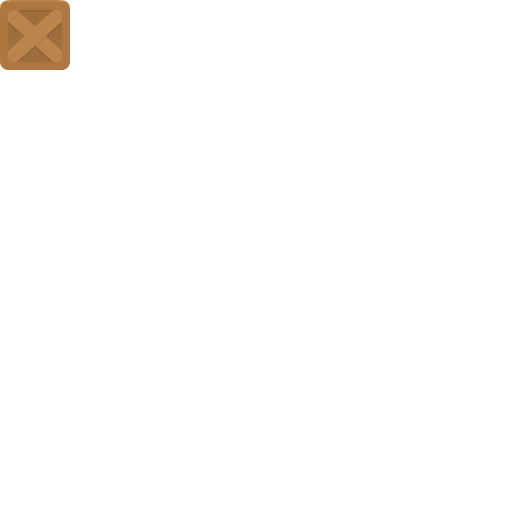
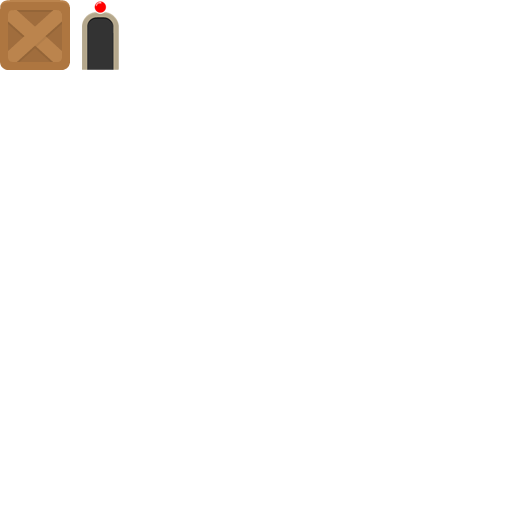
remove gameobject/component stuff

Changed region(s): [[0.1562, 0.0, 0.25, 0.1562]]

diff --git a/src/Level.js b/src/Level.js
@@ -1,10 +1,10 @@
 'use strict';
 
 define([
-    'gameobjects/GameObject',
     'components/PlayerController',
-    'Constants'
-], function (GameObject, PlayerController, Constants)
+    'Constants',
+    'components/CloningMachine'
+], function (PlayerController, Constants, CloningMachine)
 {
     // Create a game object.
     var Level = function(fileName)
@@ -20,6 +20,8 @@ define([
         this.backgroundLayer = null;
 
         this.wallsLayer = null;
+
+        this.cloningMachines = [];
     };
 
     Level.GRAVITY = 2000;
@@ -49,6 +51,9 @@ define([
 
         // Wall objects.
         this.createWalls();
+
+        // Special objects.
+        this.createSpecialObjects();
 
         // Physics objects.
         this.createPhysicsObjects();
@@ -81,6 +86,20 @@ define([
         }
     };
 
+    Level.prototype.createSpecialObjects = function()
+    {
+        var cloningMachinesGroup = game.add.group();
+
+        this.map.createFromObjects('Objects', 51, 'cloning-machine', 0, true, false, cloningMachinesGroup);
+
+        for (var i = 0; i < cloningMachinesGroup.children.length; ++i)
+        {
+            var cloningMachine = new CloningMachine(cloningMachinesGroup.children[i]);
+
+            this.cloningMachines.push(cloningMachine);
+        }
+    };
+
     Level.prototype.createPhysicsObjects = function()
     {
         var physicsObjects = game.add.group();
@@ -100,7 +119,7 @@ define([
 
     Level.prototype.createPlayer = function()
     {
-        this.player = new GameObject('player', [PlayerController]);
+        window.player = this.player = new PlayerController();
 
         //  Here is the contact material. It's a combination of 2 materials, so whenever shapes with
         //  those 2 materials collide it uses the following settings.
@@ -134,6 +153,11 @@ define([
     Level.prototype.update = function()
     {
         this.player.update();
+
+        for (var i = 0; i < this.cloningMachines.length; ++i)
+        {
+            this.cloningMachines[i].update();
+        }
     };
 
     return Level;

diff --git a/src/components/PlayerController.js b/src/components/PlayerController.js
@@ -1,19 +1,18 @@
 define([
-    'components/Component',
     'Constants'
-], function(Component, Constants)
+], function(Constants)
 {
-    function PlayerController(parent)
+    function PlayerController()
     {
-        Component.call(this, parent);
+        this.sprite = game.add.sprite(0, 0, 'player');
 
         // Camera.
-        game.camera.follow(this.parent);
+        game.camera.follow(this.sprite);
 
         // Physics stuff.
-        game.physics.p2.enable(this.parent, Constants.DEBUG);
+        game.physics.p2.enable(this.sprite, Constants.DEBUG);
 
-        this.body = this.parent.body;
+        this.body = this.sprite.body;
 
         this.material = game.physics.p2.createMaterial('playerMaterial', this.body);
 
@@ -33,9 +32,11 @@ define([
         this.jumpTimer = 0;
 
         this.jumped = false;
-    }
 
-    PlayerController.prototype = Object.create(Component.prototype);
+        var killKey = game.input.keyboard.addKey(Phaser.Keyboard.K);
+
+        killKey.onDown.add(this.kill, this);
+    }
 
     PlayerController.JUMP_HEIGHT = 880;
 
@@ -45,8 +46,6 @@ define([
 
     PlayerController.prototype.update = function()
     {
-        Component.prototype.update.call(this);
-
         if (scientist.controlsDisabled)
         {
             return;
@@ -115,6 +114,11 @@ define([
         }
 
         return result;
+    };
+
+    PlayerController.prototype.kill = function()
+    {
+        console.log('you died');
     };
 
     return PlayerController;

diff --git a/src/gameobjects/SpeechPopup.js b/src/gameobjects/SpeechPopup.js
@@ -1,10 +1,8 @@
-define([
-    'gameobjects/GameObject'
-], function(GameObject) {
-
-    function SpeechPopup(name)
+define([], function()
+{
+    function SpeechPopup()
     {
-        GameObject.call(this, name);
+        this.sprite = game.add.sprite(0, 0, 'scientist');
 
         this.texts = {
             tut: {
@@ -63,8 +61,6 @@ define([
         this.controlsDisabled = false;
     }
 
-    SpeechPopup.prototype = Object.create(GameObject.prototype);
-
     SpeechPopup.prototype.idle = function()
     {
         this.state = this.states.idle;
@@ -115,8 +111,6 @@ define([
 
     SpeechPopup.prototype.update = function()
     {
-        GameObject.prototype.update.call(this);
-
         this.sprite.x = game.camera.x + game.camera.width - this.sprite.width;
 
         switch (this.state)

diff --git a/src/components/CloningMachine.js b/src/components/CloningMachine.js
@@ -1,0 +1,30 @@
+define([
+    'Constants'
+], function(Constants)
+{
+    function CloningMachine(sprite)
+    {
+        this.sprite = sprite;
+    }
+
+    CloningMachine.ACTIVE_DISTANCE = 10;
+
+    CloningMachine.prototype.update = function()
+    {
+        var distX = Math.abs(window.player.sprite.x - (this.sprite.x + (this.sprite.width / 2)));
+        var distY = Math.abs(window.player.sprite.y - (this.sprite.y + (this.sprite.height)));
+
+        if (distX < CloningMachine.ACTIVE_DISTANCE
+            && distY < CloningMachine.ACTIVE_DISTANCE)
+        {
+            console.log("WHALE SOUDN " + game.time.now);
+        }
+        else
+        {
+            console.log(distX + ' ' + distY);
+        }
+    };
+
+    return CloningMachine;
+
+});

diff --git a/src/main.js b/src/main.js
@@ -3,9 +3,8 @@
 define([
     'Loader',
     'Level',
-    'gameobjects/GameObject',
     'gameobjects/SpeechPopup'
-], function (Loader, Level, GameObject, SpeechPopup)
+], function (Loader, Level, SpeechPopup)
 {
     // Greet the world.
     console.log('Hello world.');
@@ -46,15 +45,15 @@ define([
 
         level.create();
 
-        scientist = new SpeechPopup('scientist');
+        scientist = new SpeechPopup();
 
         // #care...
         window.scientist = scientist;
 
-        setTimeout(function()
+        /*setTimeout(function()
         {
             scientist.show('tut', 0, true);
-        }, 600);
+        }, 600);*/
     }
 
     function update()

diff --git a/src/Loader.js b/src/Loader.js
@@ -16,8 +16,9 @@ define([], function ()
         game.load.image('objects', 'assets/tiles/objects-sheet.png');
         game.load.image('box', 'assets/objects/box.png');
         game.load.image('player', 'assets/characters/player-small.png');
-        //game.load.image('scientist', 'assets/characters/MadScientist.png');
         game.load.image('scientist', 'assets/characters/dr-monocle-dialog.png');
+        game.load.image('cloning-machine', 'assets/objects/cloning-machine.png');
+        game.load.image('cloning-machine-active', 'assets/objects/cloning-machine-active.png');
     };
 
     return Loader;

diff --git a/src/Constants.js b/src/Constants.js
@@ -4,7 +4,7 @@ define([], function ()
 {
     var Constants = {};
 
-    Constants.DEBUG = false;
+    Constants.DEBUG = true;
 
     return Constants;
 });
